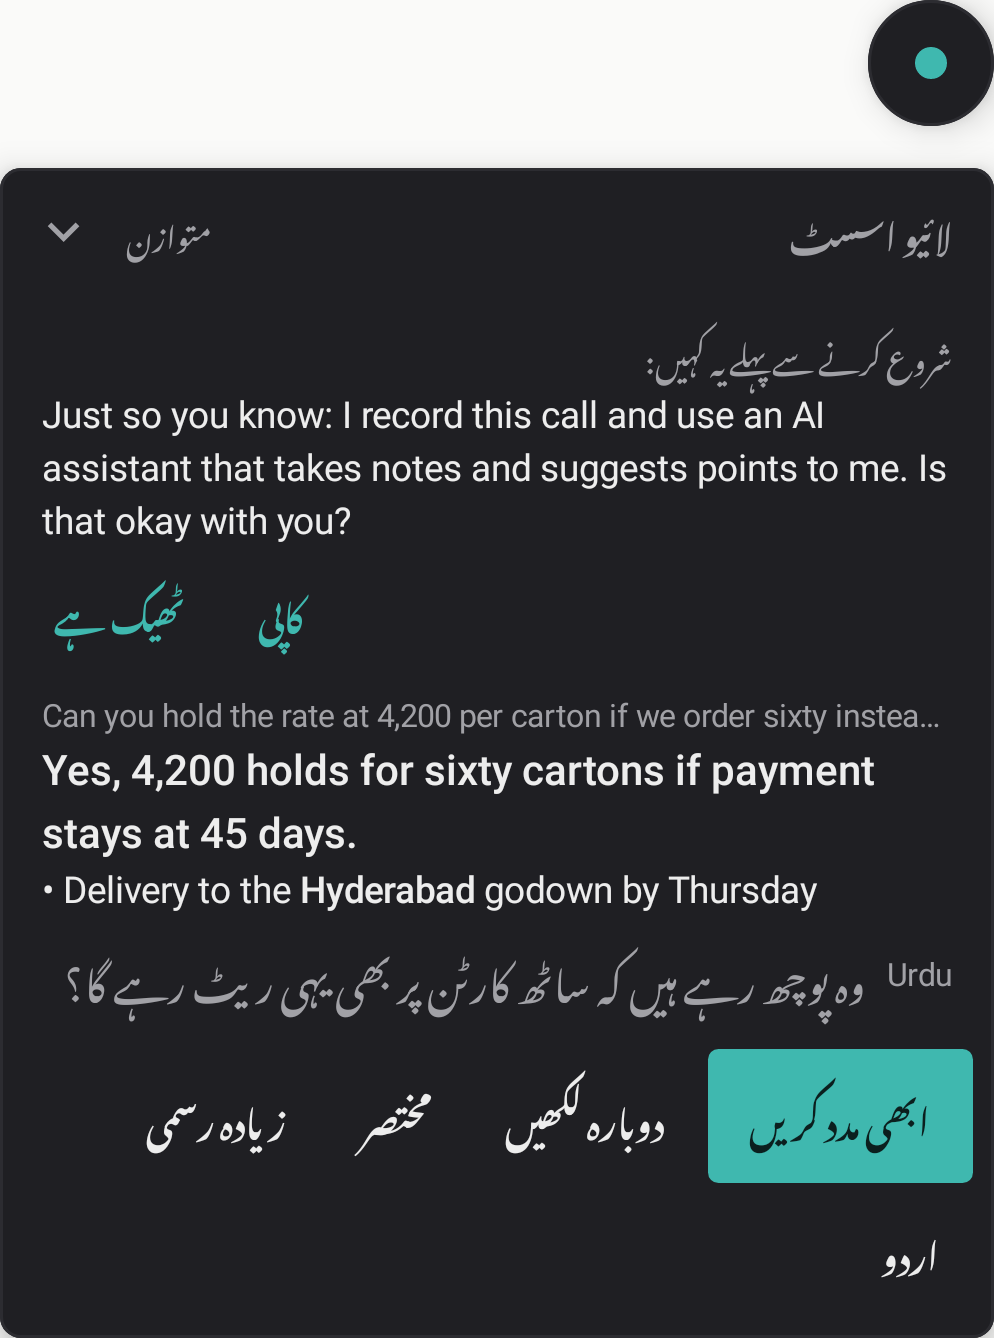
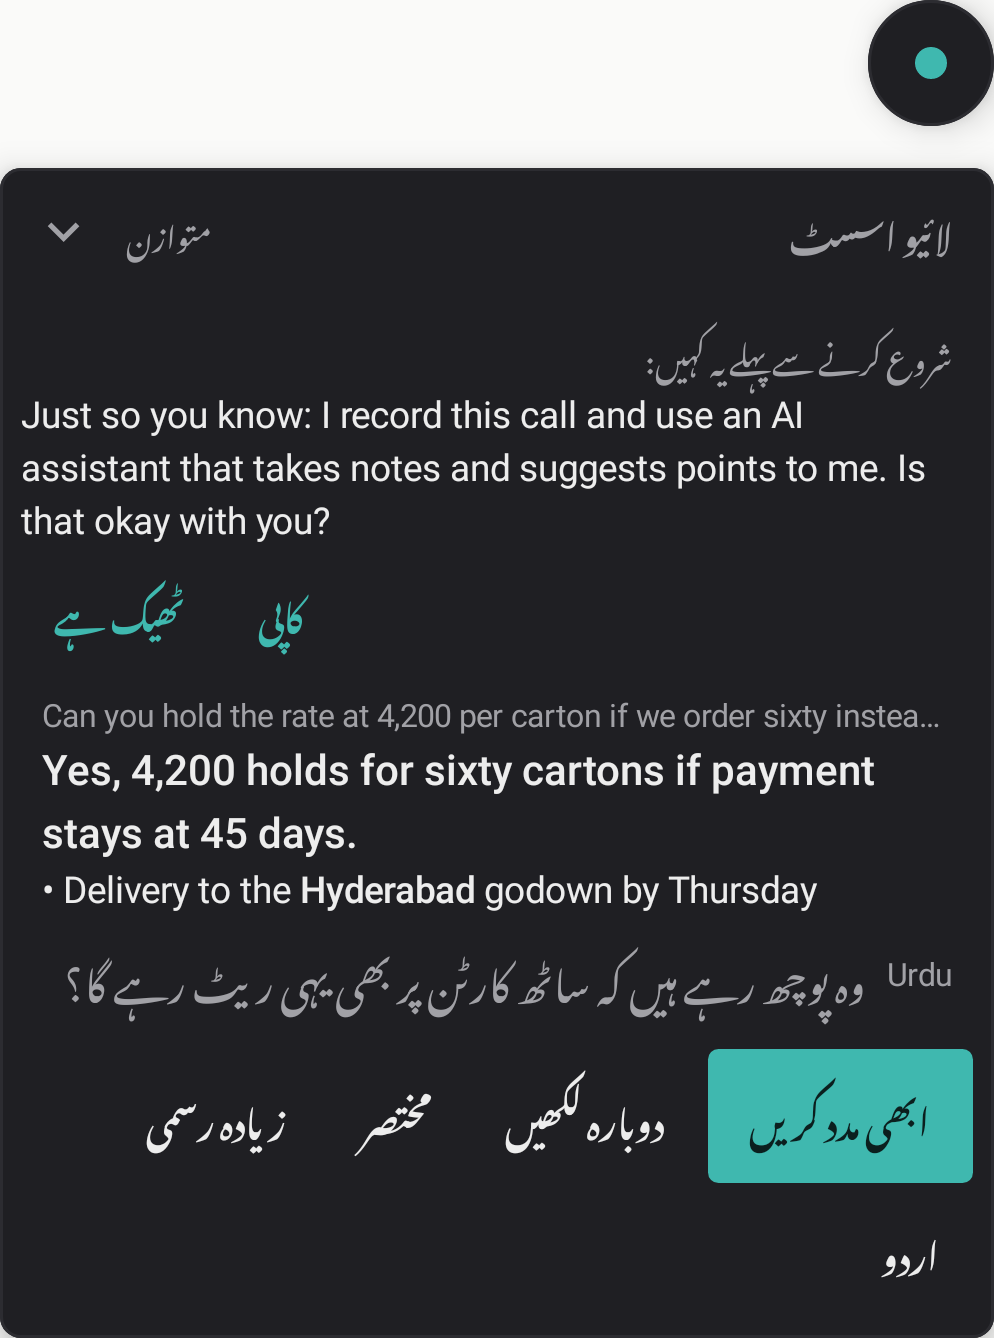
Live Assist card: the consent sentence is laid out left to right on an Urdu screen
The English sentence to say keeps its question mark at the end of its
last line: left to right as a whole (direction, alignment and layout),
as on the start screen. A test reads its layout on an Urdu screen.

Changed region(s): [[0.0, 0.2758, 0.9668, 0.3984]]

diff --git a/mobile/app/src/main/java/com/echoledger/mobile/ui/v2/assist/V2AssistCard.kt b/mobile/app/src/main/java/com/echoledger/mobile/ui/v2/assist/V2AssistCard.kt
@@ -30,6 +30,7 @@ import androidx.compose.runtime.withFrameMillis
 import androidx.compose.ui.Alignment
 import androidx.compose.ui.Modifier
 import androidx.compose.ui.platform.LocalDensity
+import androidx.compose.ui.platform.LocalLayoutDirection
 import androidx.compose.ui.platform.testTag
 import androidx.compose.ui.res.stringResource
 import androidx.compose.ui.semantics.LiveRegionMode
@@ -40,9 +41,11 @@ import androidx.compose.ui.text.AnnotatedString
 import androidx.compose.ui.text.SpanStyle
 import androidx.compose.ui.text.buildAnnotatedString
 import androidx.compose.ui.text.font.FontWeight
+import androidx.compose.ui.text.style.TextAlign
 import androidx.compose.ui.text.style.TextDirection
 import androidx.compose.ui.text.style.TextOverflow
 import androidx.compose.ui.text.withStyle
+import androidx.compose.ui.unit.LayoutDirection
 import com.echoledger.mobile.R
 import com.echoledger.mobile.ui.v2.components.EchoButton
 import com.echoledger.mobile.ui.v2.components.EchoButtonKind
@@ -381,12 +384,17 @@ private fun Reminder(meeting: MeetingType, onCopyConsent: () -> Unit, onOk: () -
             )
         } else {
             Text(stringResource(R.string.v2_assist_consent_label), style = EchoV2.type.caption, color = c.textSecondary)
-            Text(
-                stringResource(R.string.v2_assist_consent),
-                style = EchoV2.type.metaLatin.copy(textDirection = TextDirection.Ltr),
-                color = c.textPrimary,
-                modifier = Modifier.padding(end = EchoTokens.Space.s8)
-            )
+            // The sentence to say is English in every language: laid out left to right as a whole (its own direction,
+            // alignment and layout), so on an Urdu screen its "?" stays at the end of the last line.
+            CompositionLocalProvider(LocalLayoutDirection provides LayoutDirection.Ltr) {
+                Text(
+                    stringResource(R.string.v2_assist_consent),
+                    style = EchoV2.type.metaLatin.copy(textDirection = TextDirection.Ltr),
+                    color = c.textPrimary,
+                    textAlign = TextAlign.Left,
+                    modifier = Modifier.fillMaxWidth().padding(end = EchoTokens.Space.s8).testTag(CONSENT_TAG)
+                )
+            }
         }
         Row(Modifier.fillMaxWidth(), horizontalArrangement = Arrangement.End) {
             if (meeting !=
@@ -404,3 +412,6 @@ const val TEXT_TAG = "assist-text"
 
 /** Lines of suggestion shown at large text before the text area scrolls. */
 private const val MAX_LINES_LARGE = 6
+
+/** The consent sentence, for tests. */
+const val CONSENT_TAG = "assist-consent"

diff --git a/mobile/app/src/test/java/com/echoledger/mobile/ui/v2/LiveAssistUiTest.kt b/mobile/app/src/test/java/com/echoledger/mobile/ui/v2/LiveAssistUiTest.kt
@@ -23,10 +23,13 @@ import androidx.compose.ui.test.onNodeWithText
 import androidx.compose.ui.test.onRoot
 import androidx.compose.ui.test.performClick
 import androidx.compose.ui.test.performScrollTo
+import androidx.compose.ui.text.TextLayoutResult
+import androidx.compose.ui.text.style.ResolvedTextDirection
 import androidx.compose.ui.unit.Density
 import com.echoledger.mobile.ui.v2.assist.AssistCard
 import com.echoledger.mobile.ui.v2.assist.AssistFixtures
 import com.echoledger.mobile.ui.v2.assist.AssistMessage
+import com.echoledger.mobile.ui.v2.assist.CONSENT_TAG
 import com.echoledger.mobile.ui.v2.assist.CardState
 import com.echoledger.mobile.ui.v2.assist.EndStatus
 import com.echoledger.mobile.ui.v2.assist.FixtureAssistAdapter
@@ -162,6 +165,24 @@ class LiveAssistUiTest {
         val sixLines = EchoTokens.Type.bodyMobile.lineHeight.value * 6 * 2f * node.layoutInfo.density.density
         assertTrue("${node.size.height} > $sixLines", node.size.height <= sixLines + 1)
         compose.onNodeWithText("Rate held", substring = true).performScrollTo().assertIsDisplayed()
+    }
+
+    @Test
+    fun theConsentSentenceReadsLeftToRightOnAnUrduScreen() {
+        show(EchoLanguage.Urdu) { V2AssistCard(AssistCard.reduce(AssistFixtures.clientCall), true, {}, {}, {}) }
+        val node = compose.onNodeWithTag(CONSENT_TAG).fetchSemanticsNode()
+        val results = mutableListOf<TextLayoutResult>()
+        node.config[SemanticsActions.GetTextLayoutResult].action?.invoke(results)
+        val layout = results.single()
+        val text = layout.layoutInput.text.text
+        assertTrue(text, text.endsWith("Is that okay with you?"))
+        assertEquals(ResolvedTextDirection.Ltr, layout.getParagraphDirection(0))
+        // Every line starts at the left, and the "?" is the last thing on the last line, at its right.
+        val last = layout.lineCount - 1
+        for (line in 0..last) assertTrue("line $line starts at ${layout.getLineLeft(line)}", layout.getLineLeft(line) < 1f)
+        val mark = layout.getBoundingBox(text.lastIndex)
+        assertEquals(last, layout.getLineForOffset(text.lastIndex))
+        assertTrue("? at ${mark.right}, line ends at ${layout.getLineRight(last)}", mark.right >= layout.getLineRight(last) - 1f)
     }
 
     @Composable
